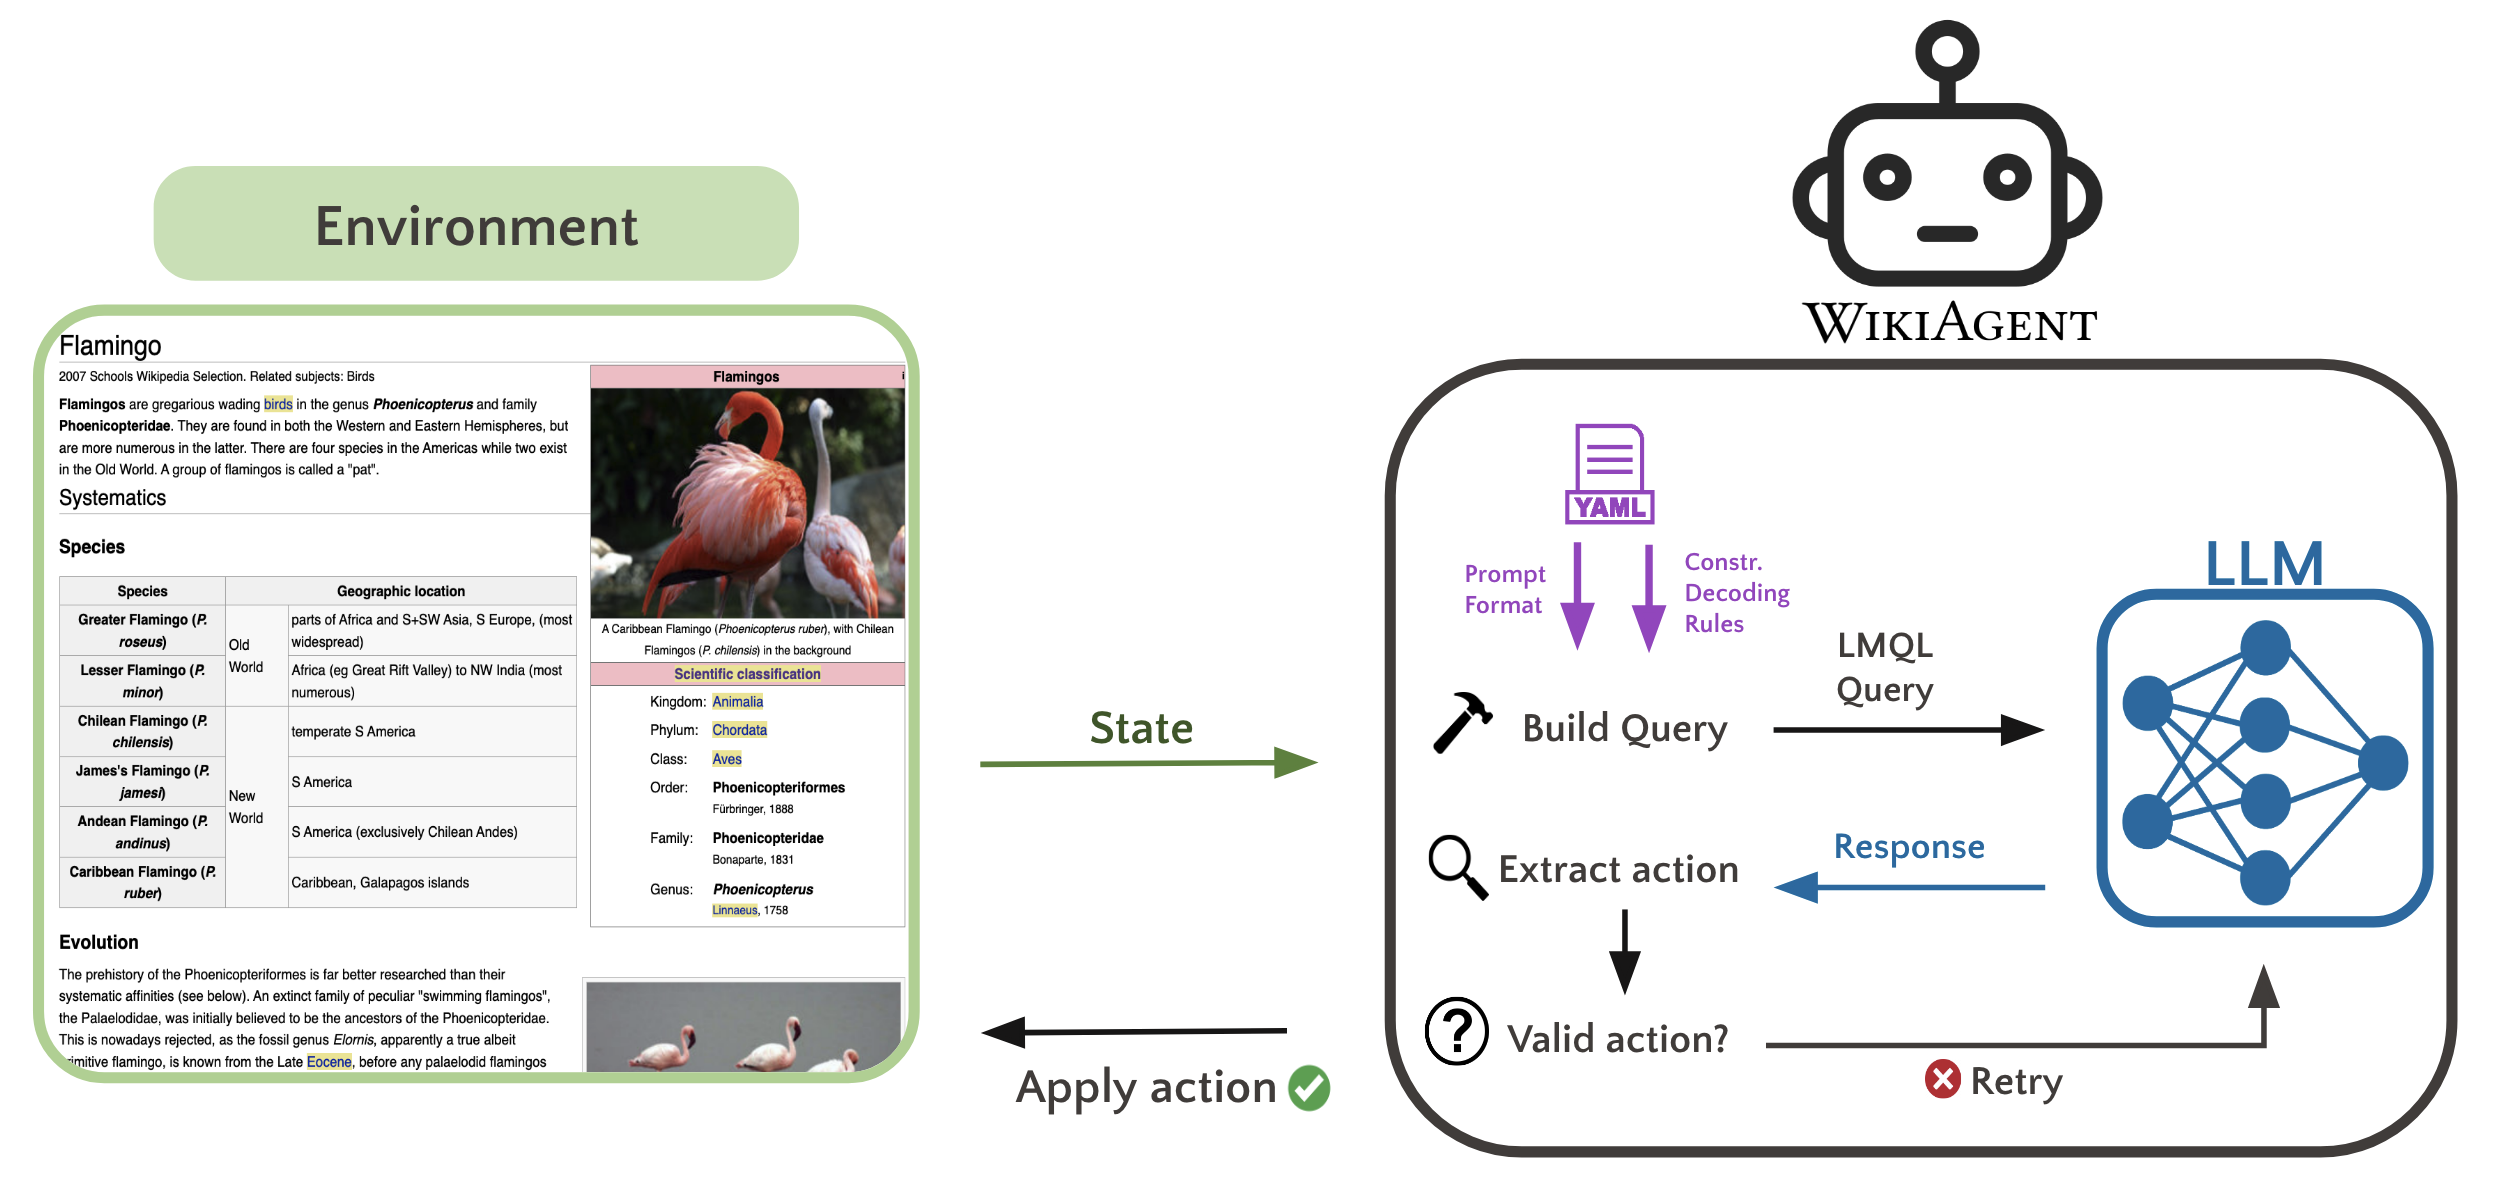
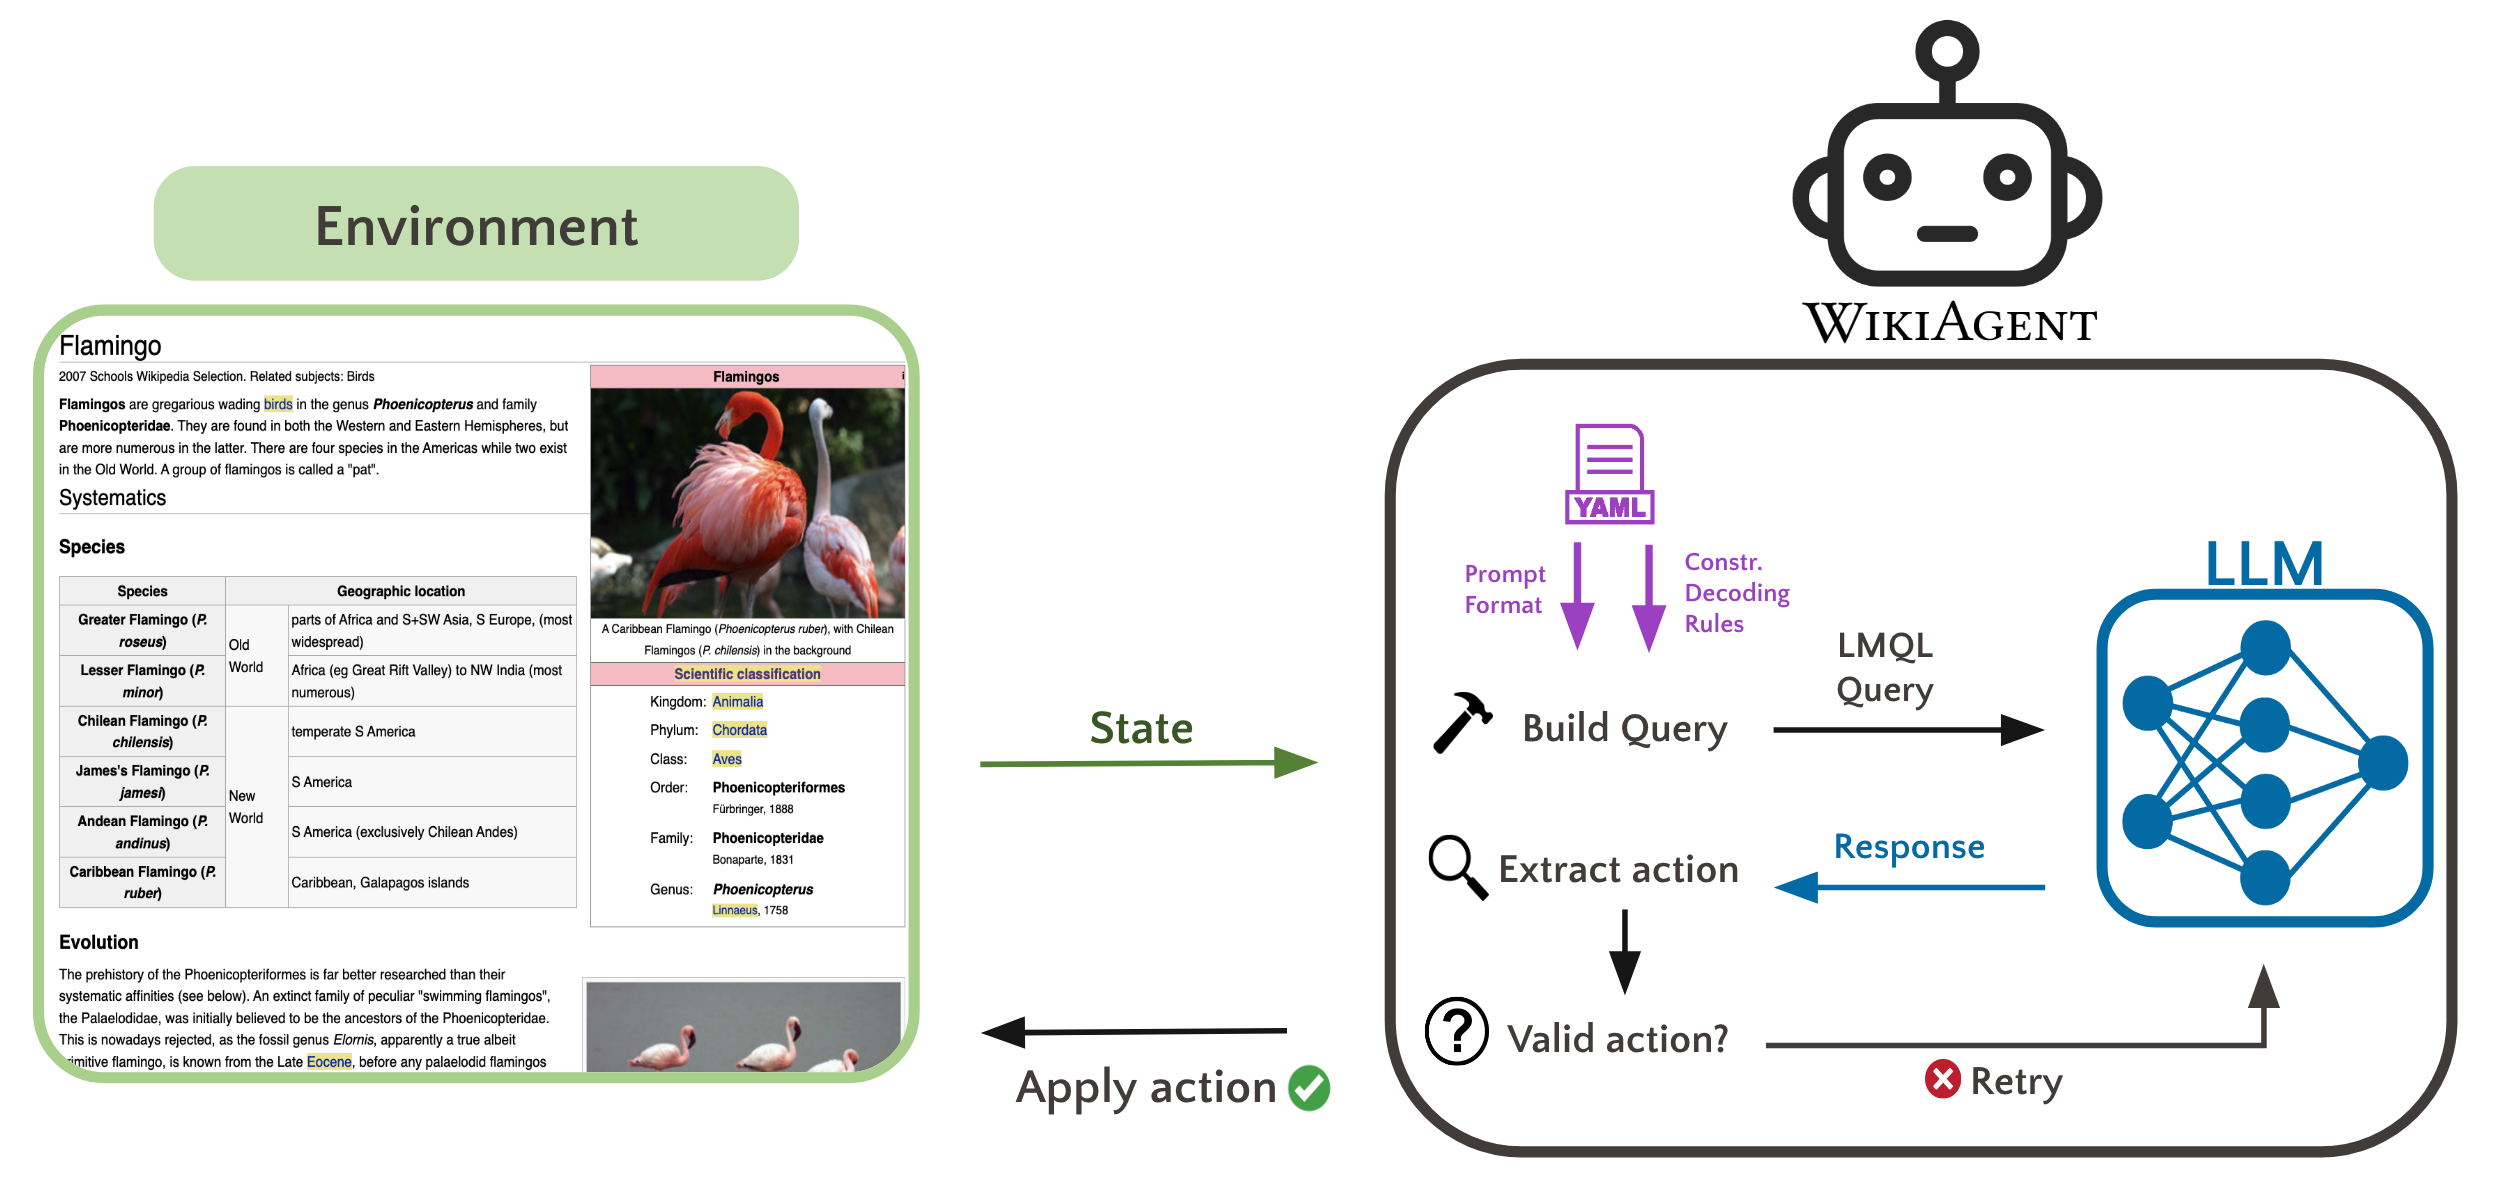
changes to README

Changed region(s): [[0.7153, 0.436, 0.9952, 0.7786], [0.4976, 0.9032, 0.5287, 0.9343]]

diff --git a/README.md b/README.md
@@ -1,11 +1,8 @@
 
-<div alig="center">
-  <center><h1>WikiAgent: LLM-powered agent for targeted Wikipedia navigation</h1></center>
-</div>
 
-<div align="center">
-  <img src="assets/wikiagent_mainfig.png" alt="WikiAgent navigating a page" style="border: 1px solid black; border-radius: 20px;"/>
-</div>
+<h1 style="text-align: center;">WikiAgent: LLM-powered agent for targeted Wikipedia navigation</h1>
+
+![WikiAgent navigating a page](assets/wikiagent_mainfig.png)
 
 # Overview
 
@@ -18,9 +15,7 @@
 
 # LLM-Agent-Environment interaction
 
-<div align="center">
-  <img src="assets/llm-agent-env.png" alt="LLM-Agent-Environment interaction" style="border: 1px solid black; border-radius: 15px;"/>
-</div>
+![LLM-Agent-Environment interaction](assets/llm-agent-env.png)
 
 The main goal of this framework is to facilitate the development of agents with varying capabilities in a modular and easy-to-experiment way. The interface for LLM interaction is handled by LMQL, allowing easy model serving, asynchronous batching, and automatic redistribution of LLM responses among agents. Our framework is compatible with any chat fine-tuned model from HuggingFace, and the changes necessary to account for other models ([llama.cpp](https://github.com/ggerganov/llama.cpp) or OpenAI API) are minimal. We also implement an abstract `Environment` class, which serves mainly as a barebones base from which to build the main environment for Wikipedia page navigation environment.
 
@@ -30,11 +25,11 @@ The `Agent` class is designed for constrained decoding and extensibility, allowi
 
 Key methods and subroutines in the `Agent` class include:
 
-- **`build_prompt`**: Constructs the prompt based on the `config.yaml` file. It observes the environment, integrates state variables into the last user message, and outputs a chat log formatted as a list of dictionaries (`{"role": [role], "content": [text content]}`).
+- **`build_prompt`**: Constructs the prompt based on the `[agent_config].yaml` file. It observes the environment, integrates state variables into the last user message, and outputs a chat log formatted as a list of dictionaries (`{"role": [role], "content": [text content]}`).
 
 - **`prepare_chat`**: Converts the message list from `build_prompt` into a text block, adapting to different LLM chat templates. Outputs a string for model input.
 
-- **`get_query`**: Processes the text prompt, handling special characters sensitive to LMQL, and constructs the LMQL query using the `config.yaml` template. Outputs an LMQL query object.
+- **`get_query`**: Processes the text prompt, handling special characters sensitive to LMQL, and constructs the LMQL query using the `[agent_config].yaml` template. Outputs an LMQL query object.
 
 - **`send_query`**: Implemented in child classes, this method passes variables (actions, clickable links, etc.) to the LMQL query, facilitating constrained LLM decoding. It supports asynchronous LLM querying and batching in the LMQL backend. Outputs an LMQL result object.
 
